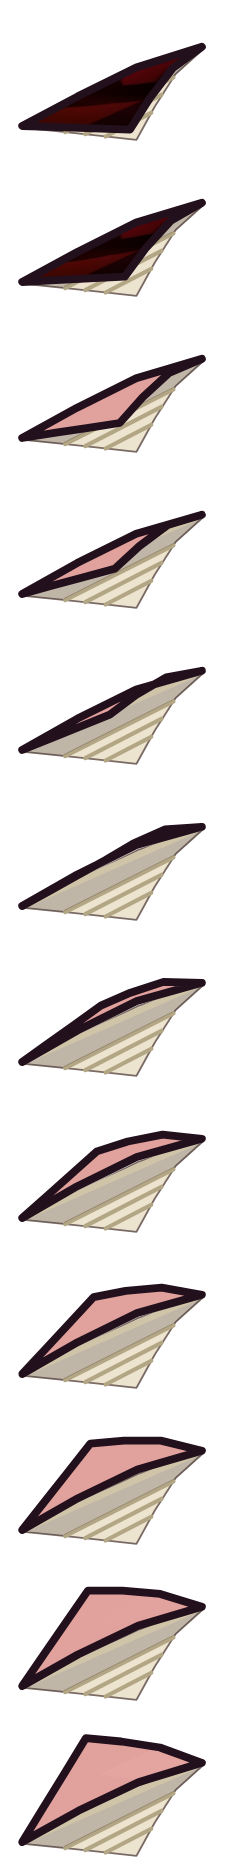
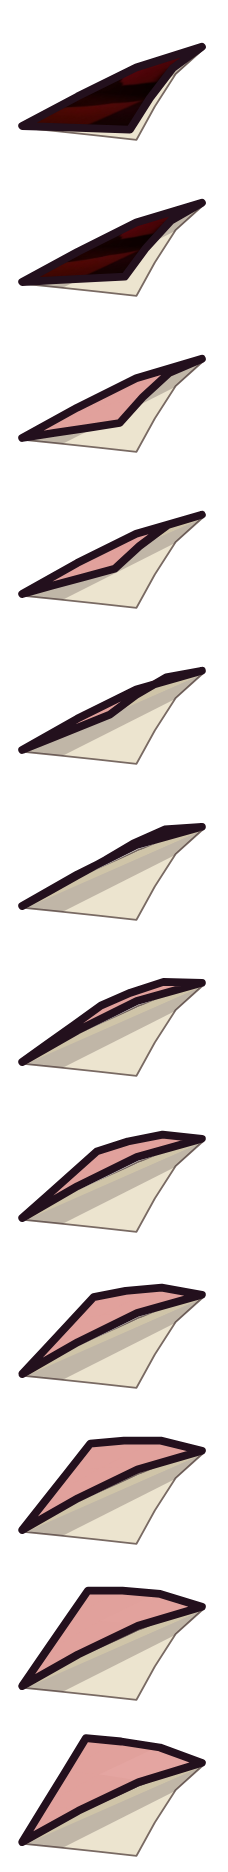
Журнал на унитазе: пауза между заходами равна длине захода, страница под уголком без полосок
Claude-Session: https://claude.ai/code/session_01HbQXcy6G3C4gJFhz1NQKZH

diff --git a/src/minigames/lust/bath-mag.js b/src/minigames/lust/bath-mag.js
@@ -350,7 +350,6 @@ const BATH_MAG = {
             + `<path d="${this.poly(fr.edge)}" fill="none" stroke="${ink}" stroke-width="${STROKE.contour}" stroke-linejoin="round"/>`);
         const under = `
                 <path d="${this.poly(F.page)}" fill="${P[500]}" stroke="${inner}" stroke-width="${STROKE.hairline}" stroke-linejoin="round"/>
-                <path d="${F.rows.map(r => this.line(r)).join('')}" fill="none" stroke="${P.line}" stroke-width="1.4" stroke-linecap="round"/>
                 <path d="${this.poly(F.shadow)}" fill="${ink}" fill-opacity="0.22"/>
                 <path d="${this.line(F.fold)}" fill="none" stroke="${P.lo}" stroke-width="2.2" stroke-linecap="round"/>`;
         return { defs: this.pattern('btmc-art', TW, TH, this.covers.top(TW, TH)), under, frames };
@@ -394,9 +393,9 @@ const BATH_MAG = {
     call: {
         // Расписание захода, мс от его начала: блик по контуру → вспышка на
         // уголке → уголок взмывает, парит с лёгкой дрожью и ложится, коротко
-        // подпрыгнув. Пауза между заходами — PAUSE + до PAUSE_RND.
+        // подпрыгнув. Пауза между заходами — PAUSE + до PAUSE_RND (сейчас равна длине захода).
         GLINT: [0, 900], SPARK: [650, 1250], UP: [1350, 2050], HOLD: 3150, DOWN: 3650, BOUNCE: 3950,
-        PAUSE: 7000, PAUSE_RND: 3000, FIRST: 2500,
+        PAUSE: 4000, PAUSE_RND: 0, FIRST: 2500,         // пауза ≈ длине захода (1:1)
         host: null, svg: null, timer: 0, k: 0, anims: [],
 
         start(host) {
